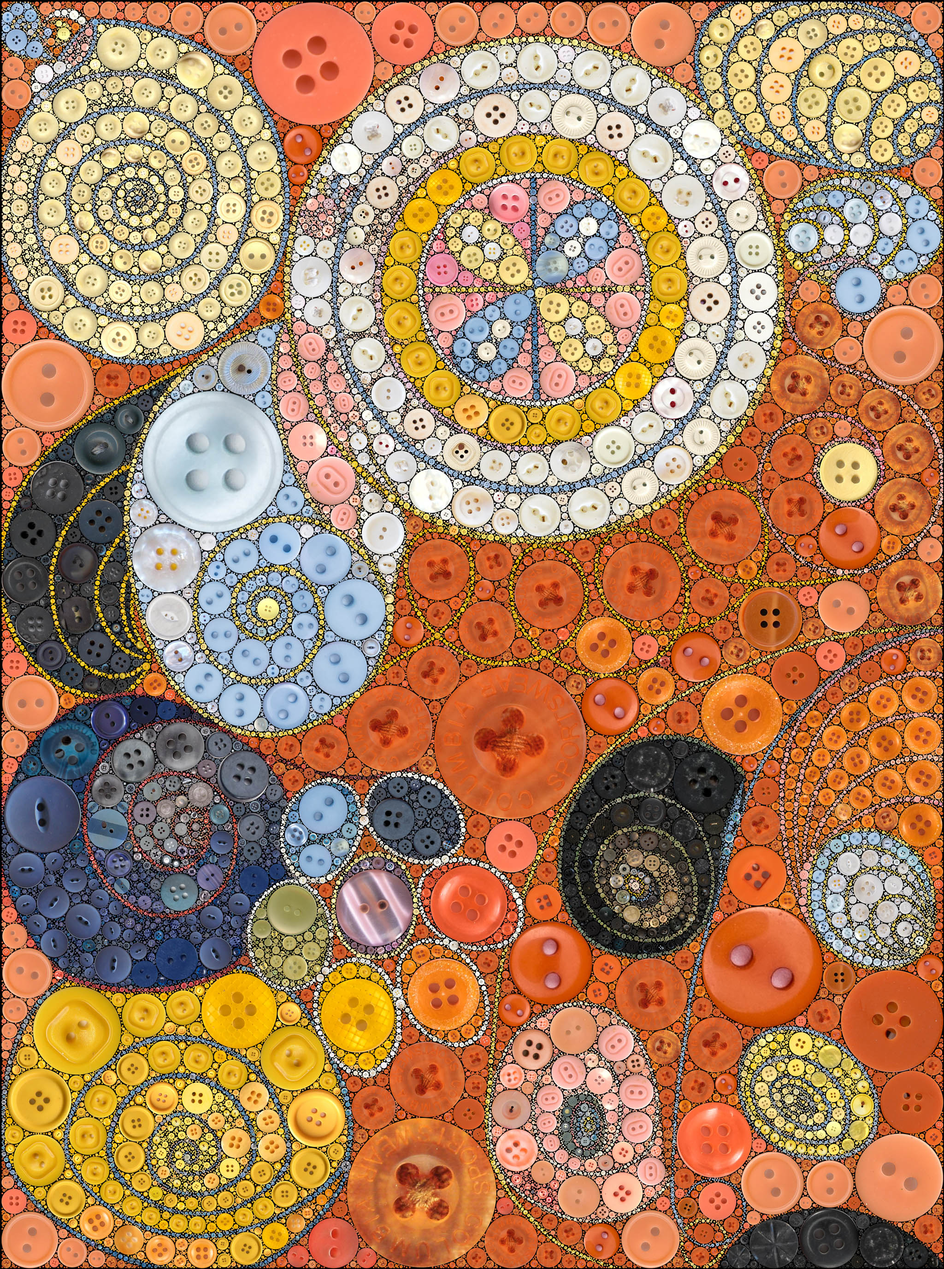
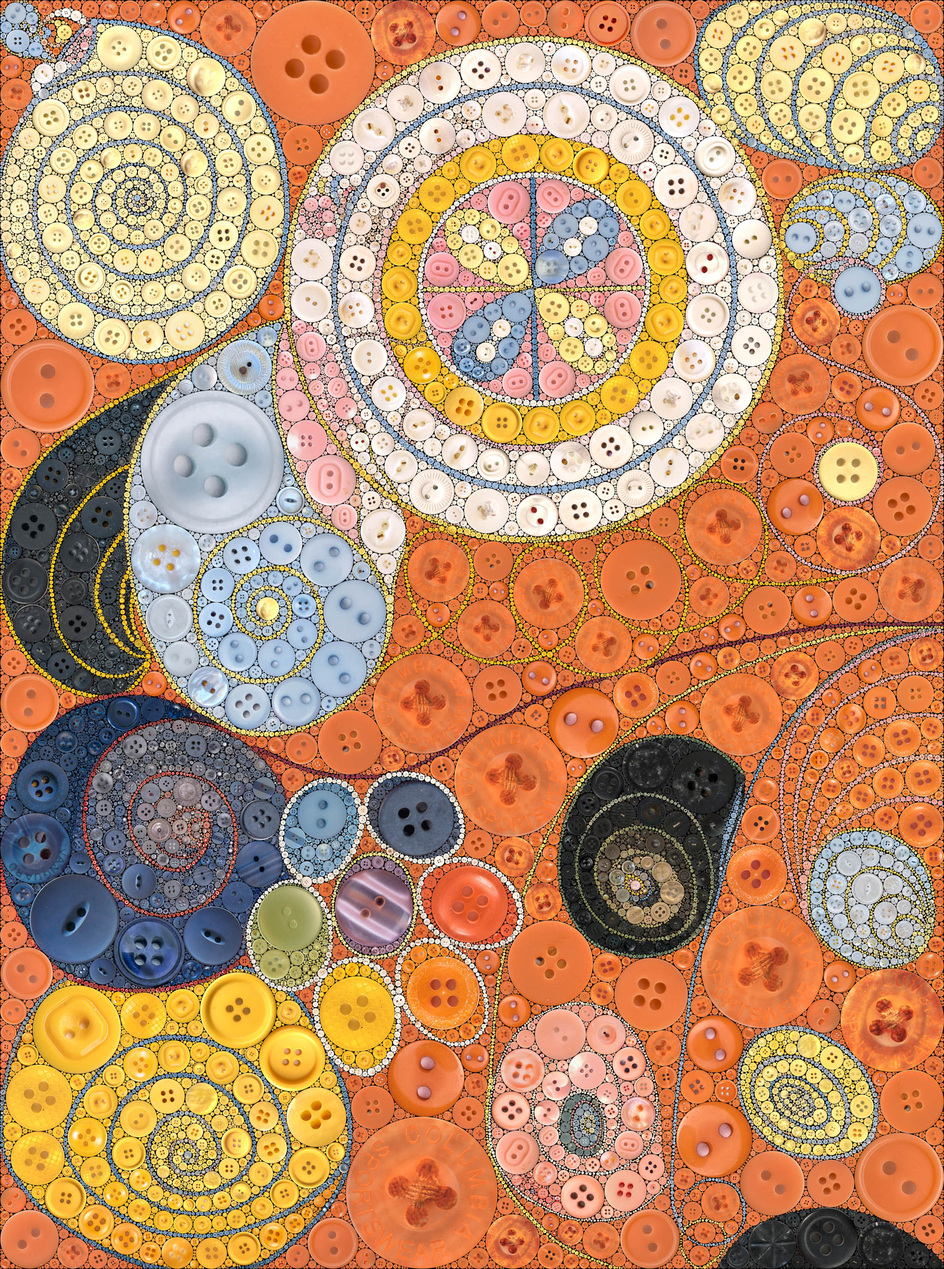
Improve performance and packing

diff --git a/source/test.m b/source/test.m
@@ -1,19 +1,18 @@
-orig_image = imread("..\input_images\Grant_Wood_-_American_Gothic_-_Google_Art_Project_proc_4096.png");
+orig_image = imread("..\input_images\The_Scream_proc.png");
 orig_image = im2single(orig_image);
 %orig_image = imresize(orig_image, 1/8);
 image = smoothColor(orig_image, 0.25);
 
-[height, width, ~] = size(image); 
-
 warning('off','images:bwfilt:tie');
-
-lab_image = rgb2lab(image);
 
 %num_colors = findNumClusters(lab_image);
 
 % American Gothic, Wheat Field, Hilma
 %num_colors = 8;
 %min_distance = 1;
+
+% Hilma
+%num_colors = 9;
 
 % Wave
 % num_colors = 6;
@@ -23,46 +22,89 @@ lab_image = rgb2lab(image);
 %num_colors = 8;
 %min_distance = 1;
 
-num_colors = 8;
+num_colors = 10;
 min_distance = 4;
 
-[L, centers] = imsegkmeans(image, num_colors);
+[L, ~] = imsegkmeans(image, num_colors);
 
-L = smoothLabels(L, floor(min_distance));
+for i = 1:max(L(:))
+    mask = L == i;
+    
+    d = 32;
+    radius = 8;
 
-%min_distance = 1.1;
+    mask = bwareaopen(~mask,d*d);
+    mask = bwareaopen(~mask,d*d);
+    mask = imclose(mask, strel('disk', radius));
+    mask = bwareaopen(~mask,d*d);
+    mask = bwareaopen(~mask,d*d);
+    L(mask) = i; 
+end
 
 figure
-imshow(labeloverlay(ones(size(image)),L));
+imshow(labeloverlay(ones(size(orig_image)),L));
+
+new_L = conCompSplitLabel(L, 'descend');
+
+new_L = smoothLabels(new_L, floor(min_distance));
+
+new_L = conCompSplitLabel(new_L, 'ascend');
+
+orig_L = new_L;
+
+num_regions = max(new_L(:));
+
+figure
+imshow(labeloverlay(ones(size(orig_image)),new_L));
+
+completed_area = 0;
 
 circles = [];
 
 f = waitbar(0, 'Creating circles');
 
-remaining = false(size(L));
+remaining = false(size(new_L));
 
-for i = 1:(num_colors + 1)
+for i = 1:(num_regions + 1)
     
-    if i <= num_colors
-        mask = L == i;
-        mask(1,:) = false;
-        mask(:,1) = false;
-        mask(end,:) = false;
-        mask(:,end) = false;
+    if i <= num_regions
+        mask = new_L == i;
+        stats = regionprops(mask, 'BoundingBox', 'Area');
+        
+        completed_area = completed_area + stats.Area;
+        
+        if length(stats) ~= 1
+            disp(length(stats))
+        end
+        
+        BB = ceil(stats.BoundingBox);
+        
+        [h, w] = size(mask);
+        
+        BB(3) = clamp(BB(3) + 2, 1, w - BB(1) + 1);
+        BB(4) = clamp(BB(4) + 2, 1, h - BB(2) + 1);
+        BB(1) = clamp(BB(1) - 1, 1, w);
+        BB(2) = clamp(BB(2) - 1, 1, h);
+        
+        small_mask = mask(BB(2):BB(2)+BB(4)-1, BB(1):BB(1)+BB(3)-1);
+        small_orig_image = orig_image(BB(2):BB(2)+BB(4)-1, BB(1):BB(1)+BB(3)-1, :);
+        offset = [BB(1) - 1, BB(2) - 1];
     else
-        mask = remaining;
+        small_orig_image = orig_image;
+        small_mask = remaining;
+        offset = [0, 0];
     end
     
     while true
         
         % Remove the boundary pixels of the region in order to not include
         % these in the resulting radius.
-        distance = bwdist(~(mask & ~bwmorph(mask,'remove')));
+        distance = bwdist(~(small_mask & ~bwmorph(small_mask,'remove')));
 
         [max_distance, ~] = max(distance(:));
         
         max_region = bwareafilt(distance >= max_distance - 1e-4, 1);
-        [row, col] = ind2sub(size(mask), find(max_region));
+        [row, col] = ind2sub(size(small_mask), find(max_region));
         mean_centroid = [mean(row), mean(col)];
         [~, idx] = min((row - mean(row)).^2 + (col - mean(col)).^2);
         centroid = [col(idx), row(idx)];
@@ -72,21 +114,24 @@ for i = 1:(num_colors + 1)
         end
         
         max_distance = floor(max_distance);
-        
-        waitbar(((i - 1) + min_distance / max_distance) / (num_colors + 1), f, 'Creating circles');
 
-        [mask, circles] = addCircle(orig_image, circles, centroid, max_distance, mask);
+        [small_mask, circles] = addCircle(small_orig_image, circles, centroid, max_distance, small_mask, offset);
     end
     
-    if(i ~= num_colors)
-        [L, mask] = distributeUnusable(mask, L, i, true);
+    if(i <= (num_regions - 1))
+        small_new_L = new_L(BB(2):BB(2)+BB(4)-1, BB(1):BB(1)+BB(3)-1);
+        [small_new_L, small_mask] = distributeUnusable(small_mask, small_new_L, i, true);
+        new_L(BB(2):BB(2)+BB(4)-1, BB(1):BB(1)+BB(3)-1) = small_new_L;
     end
     
-    if i <= num_colors
+    if i <= num_regions
+        mask(BB(2):BB(2)+BB(4)-1, BB(1):BB(1)+BB(3)-1) = small_mask;
         remaining(mask) = true;
     else
-        remaining = mask;
+        remaining = small_mask;
     end
+    
+    waitbar(completed_area / numel(new_L), f, 'Creating circles');
 end
 
 % Goal is to maximize coverage while minimizing number of circles, provided
@@ -94,29 +139,11 @@ end
 disp(strcat("Uncovered pixels: ", num2str(100*sum(remaining(:)) / numel(remaining)), '%'));
 disp(strcat("Number of circles: ", num2str(length(circles))));
 
-% figure
-% imshow(remaining)
-
-%remaining_color = mean(reshape(orig_image(~repmat(remaining, 1, 1, 3)), [], 3));
-base_image = zeros(size(orig_image));
-
 close(f)
-result = createButtonMosaic(circles, base_image, 1, 4);
+result = createButtonMosaic(circles, zeros(size(orig_image)), 1, 4);
 
 figure
 imshow(result)
-
-% figure
-% drawCircles(circles)
-% xlim([0 width])
-% ylim([0 height])
-% 
-% set ( gca, 'ydir', 'reverse' )
-% pbaspect([width height 1])
-% set(gca,'Color','k')
-% 
-%figure
-%imshow(labeloverlay(ones(size(image)),L));
 
 
 

diff --git a/source/smoothLabels.m b/source/smoothLabels.m
@@ -4,42 +4,64 @@ function L = smoothLabels(L, min_distance)
     
     num_labels = max(L(:));
     
-    for i = 1:num_labels
-        mask = L == i;
-        
-        % American gothic, Wheat field
-        %d = 8;
-        %radius = 2;
-        
-        % Hilma
-        %d = 8
-        %radius = 1;
-        
-        % Wave
-        %none
-        
-        % Scream
-        %d = 10;
-        %radius = 2;
-        
-        d = 32;
-        radius = 8;
-        
-        mask = bwareaopen(~mask,d*d);
-        mask = bwareaopen(~mask,d*d);
-        mask = imclose(mask, strel('disk', radius));
-        mask = bwareaopen(~mask,d*d);
-        mask = bwareaopen(~mask,d*d);
-        L(mask) = i; 
-    end
+%     for i = 1:num_labels
+%         mask = L == i;
+%         
+%         % American gothic, Wheat field
+%         %d = 8;
+%         %radius = 2;
+%         
+%         % Hilma
+%         %d = 8
+%         %radius = 1;
+%         
+%         % Wave
+%         %none
+%         
+%         % Scream
+%         %d = 10;
+%         %radius = 2;
+%         
+%         d = 32;
+%         radius = 8;
+%         
+%         mask = bwareaopen(~mask,d*d);
+%         mask = bwareaopen(~mask,d*d);
+%         mask = imclose(mask, strel('disk', radius));
+%         mask = bwareaopen(~mask,d*d);
+%         mask = bwareaopen(~mask,d*d);
+%         L(mask) = i; 
+%     end
     
     for i = 1:num_labels
         mask = L == i;
         
-        new_mask = removeUnusable(mask, min_distance);
-        unusable = mask & ~new_mask;
+        stats = regionprops(mask, 'BoundingBox');
         
-        [L, ~] = distributeUnusable(unusable, L, i, false);
+        if(length(stats) ~= 1)
+            disp(length(stats))
+        end
+        
+        BB = ceil(stats.BoundingBox);
+        
+        [h, w] = size(mask);
+        
+        BB(3) = clamp(BB(3) + 2, 1, w - BB(1) + 1);
+        BB(4) = clamp(BB(4) + 2, 1, h - BB(2) + 1);
+        BB(1) = clamp(BB(1) - 1, 1, w);
+        BB(2) = clamp(BB(2) - 1, 1, h);
+        
+        small_mask = mask(BB(2):BB(2)+BB(4)-1, BB(1):BB(1)+BB(3)-1);
+        
+        new_small_mask = removeUnusable(small_mask, min_distance);
+        unusable = small_mask & ~new_small_mask;
+        
+        small_L = L(BB(2):BB(2)+BB(4)-1, BB(1):BB(1)+BB(3)-1);
+        [small_L, ~] = distributeUnusable(unusable, small_L, i, false);
+        L(BB(2):BB(2)+BB(4)-1, BB(1):BB(1)+BB(3)-1) = small_L;
+        
+        new_mask = false(size(mask));
+        new_mask(BB(2):BB(2)+BB(4)-1, BB(1):BB(1)+BB(3)-1) = new_small_mask;
         
         L(new_mask) = i;
         waitbar(double(i) / double(num_labels), f, 'Smoothing segmented region labels');

diff --git a/source/addCircle.m b/source/addCircle.m
@@ -1,4 +1,4 @@
-function [L, circles] = addCircle(image, circles, centroid, radius, L)
+function [L, circles] = addCircle(image, circles, centroid, radius, L, offset)
 
     new_circle = struct;
 
@@ -7,6 +7,8 @@ function [L, circles] = addCircle(image, circles, centroid, radius, L)
     
     x_range = s_idx(2):e_idx(2);
     y_range = s_idx(1):e_idx(1);
+    
+    %radius2 = numel(x_range)/2;
     
     [Y, X] = meshgrid(y_range, x_range);
     circle = (X - centroid(2)).^2 + (Y - centroid(1)).^2 <= radius^2;
@@ -21,7 +23,7 @@ function [L, circles] = addCircle(image, circles, centroid, radius, L)
     
     new_circle.dominant_colors = kDominantColors(double(colors), 3, 10000, 3);
     new_circle.radius = radius;
-    new_circle.position = centroid;
+    new_circle.position = offset + centroid;
     new_circle.mean_color_lab = mean(rgb2lab(colors));
     
     circles = [circles new_circle];

diff --git a/source/conCompSplitLabel.m b/source/conCompSplitLabel.m
@@ -1,0 +1,22 @@
+% Splits a labeled matrix further into individual connected components.
+% Orders the labels by area
+function L = conCompSplitLabel(L, order)
+    current_label = 0;
+    new_L = zeros(size(L));
+    for i = unique(L(:))'
+        region = L == i;
+        CC = bwlabel(region, 8);
+        new_L = new_L + CC + (CC ~= 0) * current_label;
+        current_label = max(new_L(:));
+    end
+    L = uint32(round(new_L));
+
+    S = regionprops(L, 'PixelIdxList', 'Area');
+    [~, region_order] = sort([S.Area], order);
+
+    current_idx = 1;
+    for i = region_order
+        L(S(i).PixelIdxList) = current_idx;
+        current_idx = current_idx + 1;
+    end
+end

diff --git a/source/findMatchingButtons.m b/source/findMatchingButtons.m
@@ -21,7 +21,7 @@ function [filenames, mean_colors_lab] = findMatchingButtons(circle, num_buttons,
     
     for i = 1:length(buttons.data)
         
-        if circle.radius >= 16
+        if circle.radius >= 16%16
             similarity = dominantColorsSimilarity(circle.dominant_colors, buttons.data(i).dominant_colors, 30);
         else
             similarity = meanColorSimilarity(circle.mean_color_lab, buttons.data(i).mean_color_lab);

diff --git a/README.md b/README.md
@@ -3,42 +3,42 @@
 ### American Gothic - *Grant Wood*
 
 <div about="output_images/american-gothic.jpg">
-  <img src="output_images/american-gothic.jpg" alt="American Gothic" />
+  <img src="output_images/american-gothic.jpg" alt title="17502 buttons"/>
   <a rel="license" href="https://creativecommons.org/licenses/by-nc-sa/4.0/"></a>
 </div>
 
 ### Wheat Field with Cypresses - *Vincent van Gogh*
 
 <div about="output_images/wheat-field-with-cypresses.jpg">
-	<img src="output_images/wheat-field-with-cypresses.jpg" alt="Wheat Field with Cypresses" />
+	<img src="output_images/wheat-field-with-cypresses.jpg" alt title="16868 buttons" />
 	<a rel="license" href="https://creativecommons.org/licenses/by-nc-sa/4.0/"></a>
 </div>
 
 ### The Great Wave off Kanagawa - *Hokusai*
 
 <div about="output_images/great-wave-off-kanagawa.jpg">
-  <img src="output_images/great-wave-off-kanagawa.jpg" alt="The Great Wave off Kanagawa" />
+  <img src="output_images/great-wave-off-kanagawa.jpg" alt title="17403 buttons" />
   <a rel="license" href="https://creativecommons.org/licenses/by-nc-sa/4.0/"></a>
 </div>
 
 ### De Tio Största, nr 3 - *Hilma af Klint*
 
 <div about="output_images/de-tio-största-nr-3.jpg">
-	<img src="output_images/de-tio-största-nr-3.jpg" alt="De Tio Största, nr 3" />
+	<img src="output_images/de-tio-största-nr-3.jpg" alt title="30852 buttons" />
 	<a rel="license" href="https://creativecommons.org/licenses/by-nc-sa/4.0/"></a>
 </div>
 
 ### The Scream - *Edvard Munch*
 
 <div about="output_images/the-scream.jpg">
-  <img src="output_images/the-scream.jpg" alt="The Scream" />
+  <img src="output_images/the-scream.jpg" alt title="31361 buttons" />
   <a rel="license" href="https://creativecommons.org/licenses/by-nc-sa/4.0/"></a>
 </div>
 
 ### Braided Streams - *Katmai National Park and Preserve*
 
 <div about="output_images/braided-streams.jpg">
-	<img src="output_images/braided-streams.jpg" alt="Braided Streams" />
+	<img src="output_images/braided-streams.jpg" alt title="24675 buttons" />
 	<a rel="license" href="https://creativecommons.org/licenses/by-nc-sa/4.0/"></a>
 </div>
 
